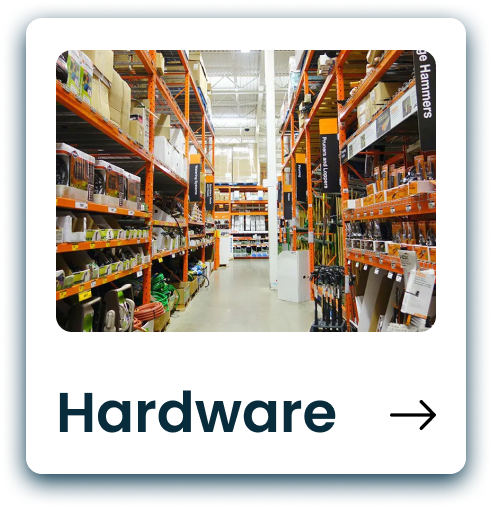
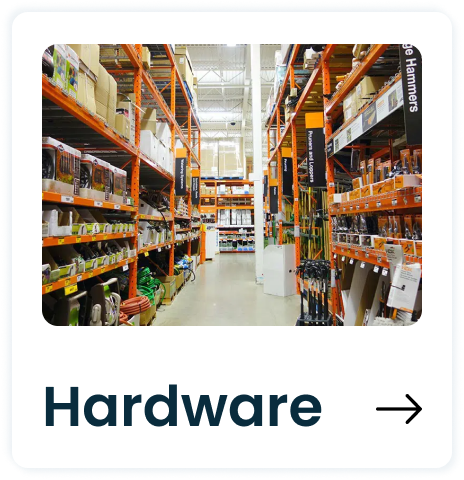
added the cta and the process section in the homepage

diff --git a/src/components/Sec_Process.jsx b/src/components/Sec_Process.jsx
@@ -1,0 +1,74 @@
+import one from "../images/one.png";
+import two from "../images/two.png";
+import three from "../images/three.png";
+import process_1 from "../images/process_1.png";
+import process_2 from "../images/process_2.png";
+import process_3 from "../images/process_3.png";
+const Process = () => {
+  return (
+    <section className="sec_process row">
+      <div className="sec_process-heading">
+        <h2 className="heading-section">
+          Get Your Desired Products in <span> 3 Steps</span>
+        </h2>
+      </div>
+      <div className="sec_process-content">
+        <div className="sec_process-content--1">
+          <div className="sec_process-content--1_content">
+            <p>
+              <span>
+                <img src={one} alt="one" />
+              </span>
+              browse categories
+            </p>
+            <p>
+              Check out the various categories listed and find the best fit for
+              your needs.
+            </p>
+          </div>
+          <div className="sec_process-content--1_img">
+            <img src={process_1} alt="process_1" />
+          </div>
+        </div>
+
+        <div className="sec_process-content--2">
+          <div className="sec_process-content--2_content">
+            <p>
+              <span>
+                <img src={two} alt="two" />
+              </span>
+              raise your query
+            </p>
+            <p>
+              To let us know your requirements by filling out the “contact us”
+              form.
+            </p>
+          </div>
+          <div className="sec_process-content--2_img">
+            <img src={process_2} alt="process_2" />
+          </div>
+        </div>
+
+        <div className="sec_process-content--3">
+          <div className="sec_process-content--3_content">
+            <p>
+              <span>
+                <img src={three} alt="three" />
+              </span>
+              get solution
+            </p>
+            <p>
+              One of our executives will reach out to you in no time with a real
+              solution.
+            </p>
+          </div>
+          <div className="sec_process-content--3_img">
+            <img src={process_3} alt="process_3" />
+          </div>
+        </div>
+      </div>
+    </section>
+  );
+};
+
+export default Process;

diff --git a/src/components/Sec_cta.jsx b/src/components/Sec_cta.jsx
@@ -1,0 +1,63 @@
+import imgHardware from "../images/hardware-card.png";
+import imgSteel from "../images/steel-card.png";
+import { motion } from "framer-motion";
+import right_arrow from "../images/right-arrow.png";
+const Sec_cta = () => {
+  const imgVariants = {
+    hidden: {
+      y: -3,
+    },
+    final: {
+      y: 3,
+      transition: {
+        type: "Tween",
+        duration: 1,
+        yoyo: Infinity,
+      },
+    },
+  };
+  return (
+    <div className="sec_cta">
+      <div className="sec_cta-content">
+        <div className="upper-triangle"></div>
+        <div className="lower-triangle"></div>
+        <div className="text">
+          <p>
+            Quick, Assured & Quality Solutions at your doorstep with the
+            simplest process among the entire hardware industry
+          </p>
+          <motion.button
+            className="btn-card"
+            whileHover={{ scale: 1.2, right: 0 }}
+            whileTap={{
+              scale: 0.8,
+            }}
+          >
+            <img src={right_arrow} alt="right-arrow" />
+          </motion.button>
+        </div>
+      </div>
+
+      <div className="sec_cta-img header_content-images">
+        <motion.a
+          to="/"
+          variants={imgVariants}
+          initial="hidden"
+          animate="final"
+        >
+          <img src={imgHardware} alt="hardware" />
+        </motion.a>
+        <motion.a
+          to="/"
+          variants={imgVariants}
+          initial="hidden"
+          animate="final"
+        >
+          <img src={imgSteel} alt="steel" />
+        </motion.a>
+      </div>
+    </div>
+  );
+};
+
+export default Sec_cta;

diff --git a/src/scss/components/_sec_cta.scss b/src/scss/components/_sec_cta.scss
@@ -1,0 +1,55 @@
+.sec_cta {
+  display: flex;
+
+  &-content {
+    width: 84%;
+    position: relative;
+    .upper-triangle,
+    .lower-triangle {
+      width: 100%;
+      height: 100%;
+      position: absolute;
+    }
+    .upper-triangle {
+      background-color: rgba($color: $color-primary, $alpha: 0.96);
+      clip-path: polygon(0% 0%, 100% 0%, 0% 100%);
+    }
+    .lower-triangle {
+      background-color: rgba($color: $color-primary, $alpha: 1);
+      clip-path: polygon(0% 98%, 0% 100%, 100% 100%, 100% 0%, 99% 0%);
+    }
+    .text {
+      position: absolute;
+      left: 50%;
+      top: 65%;
+      transform: translate(-50%, -65%);
+      font-size: 2.4rem;
+      font-weight: 500;
+      color: $color-card-bg;
+      text-align: center;
+      width: 70%;
+      .btn-card {
+        border: 1px solid $color-card-bg;
+        margin-top: 2rem;
+        padding: 1.5rem 0;
+        border-radius: 100%;
+        background-color: transparent;
+        img {
+          width: 50%;
+        }
+      }
+    }
+  }
+  &-img {
+    padding: 6rem 0;
+    justify-content: center;
+    background-color: $color-card-bg;
+    a {
+      width: 30%;
+      margin-right: 4rem;
+      img {
+        width: 110%;
+      }
+    }
+  }
+}

diff --git a/src/scss/components/_sec_process.scss b/src/scss/components/_sec_process.scss
@@ -1,0 +1,52 @@
+.sec_process-heading {
+  margin-bottom: 6rem;
+  h2 {
+    span {
+      color: $color-primary;
+    }
+  }
+}
+
+.sec_process-content {
+  &--1,
+  &--2,
+  &--3 {
+    display: flex;
+    justify-content: space-between;
+    width: 100%;
+    background-color: $color-card-bg;
+    &:not(:last-of-type) {
+      margin-bottom: 1rem;
+    }
+
+    &_content {
+      width: 50%;
+      padding: 5rem 4rem;
+      p {
+        display: flex;
+        align-items: center;
+        text-transform: capitalize;
+        padding-left: 5rem;
+        font-size: 1.6rem;
+
+        &:first-of-type {
+          font-size: 2.4rem;
+          padding-left: 0;
+          font-weight: 600;
+          span {
+            margin-right: 1.8rem;
+            img {
+              vertical-align: middle;
+            }
+          }
+        }
+      }
+    }
+    &_img {
+      text-align: end;
+      img {
+        width: 90%;
+      }
+    }
+  }
+}

diff --git a/src/pages/HomePage.jsx b/src/pages/HomePage.jsx
@@ -2,6 +2,8 @@ import Header from "../components/Header";
 import Nav from "../components/Navigation";
 import Stats from "../components/Stats";
 import Issues from "../components/Sec_Issues";
+import Process from "../components/Sec_Process";
+import CTA from "../components/Sec_cta";
 const HomePage = () => {
   return (
     <div>
@@ -11,6 +13,8 @@ const HomePage = () => {
       <Header />
       <Stats />
       <Issues />
+      <Process />
+      <CTA />
     </div>
   );
 };

diff --git a/src/components/Sec_Issues.jsx b/src/components/Sec_Issues.jsx
@@ -5,7 +5,7 @@ import issueImg3 from "../images/issue-3.png";
 const Sec_Issues = () => {
   return (
     <section className="sec_issues row">
-      <div className="sec_issues-heading">
+      <div className="sec_issues-heading ">
         <h2 className="heading-section">issues in current market</h2>
         <h3 className="heading-section-secondary">
           Hardware market is filled with <span> SCAMS </span>which makes the

diff --git a/index.html b/index.html
@@ -4,7 +4,7 @@
     <meta charset="UTF-8" />
     <link rel="icon" type="image/svg+xml" href="/src/favicon.svg" />
     <meta name="viewport" content="width=device-width, initial-scale=1.0" />
-    <title>Vite App</title>
+    <title>Puneet Trading Company</title>
   </head>
   <body>
     <div id="root"></div>

diff --git a/src/components/Header.jsx b/src/components/Header.jsx
@@ -27,7 +27,7 @@ const Header = () => {
             requirements.
           </h3>
         </div>
-        <div className="header_content-images">
+        <div className="header_content-images card-contain">
           <motion.a
             to="/"
             variants={imgVariants}

diff --git a/src/scss/main.scss b/src/scss/main.scss
@@ -7,6 +7,8 @@
 @import "./components/nav";
 @import "./components/header";
 @import "./components/stats";
+@import "./components/sec_issues";
+@import "./components/sec_process";
+@import "./components/sec_cta";
 
 @import "./pages/homePage";
-@import "./components/sec_issues";

diff --git a/src/scss/base/_base.scss b/src/scss/base/_base.scss
@@ -60,8 +60,9 @@ body {
   box-sizing: border-box;
   font-family: Poppins, sans-serif;
   font-weight: 400;
+  color: $color-text;
 }
 
 section {
-  padding: 6rem 0;
+  padding: 5rem 0;
 }

diff --git a/src/scss/base/_variable.scss b/src/scss/base/_variable.scss
@@ -3,3 +3,4 @@ $color-gradient-1: #3da8d8;
 $color-gradient-2: #22c3cd;
 $color-heading: #062d40;
 $color-text: #092c3d;
+$color-card-bg: #fbfdfe;
